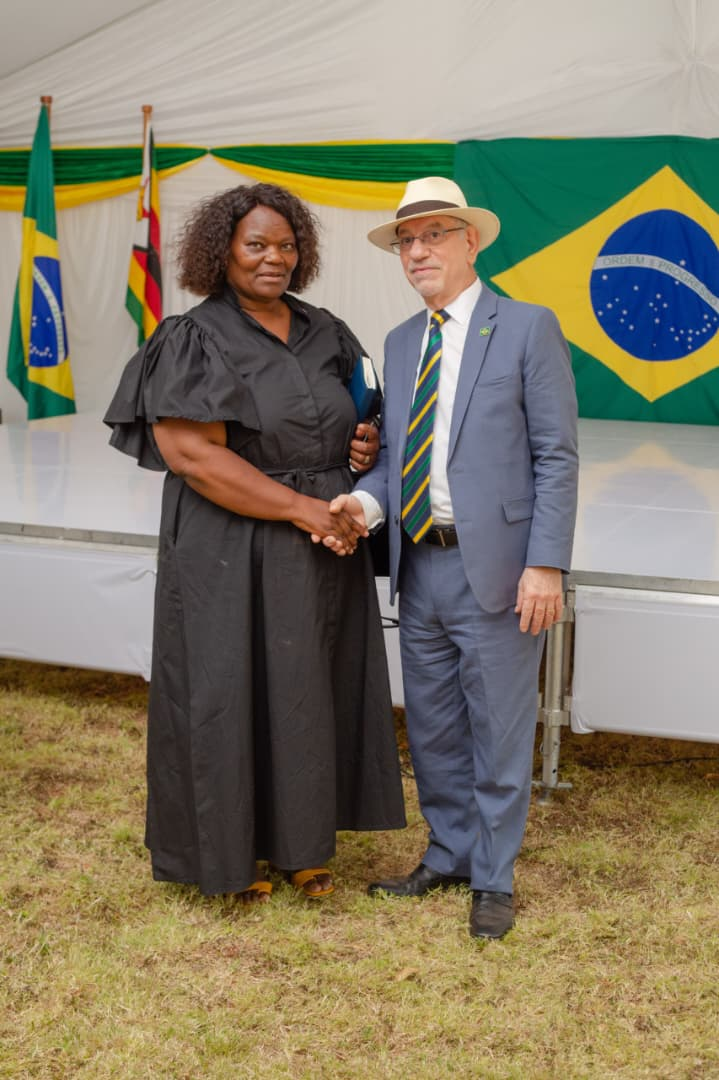
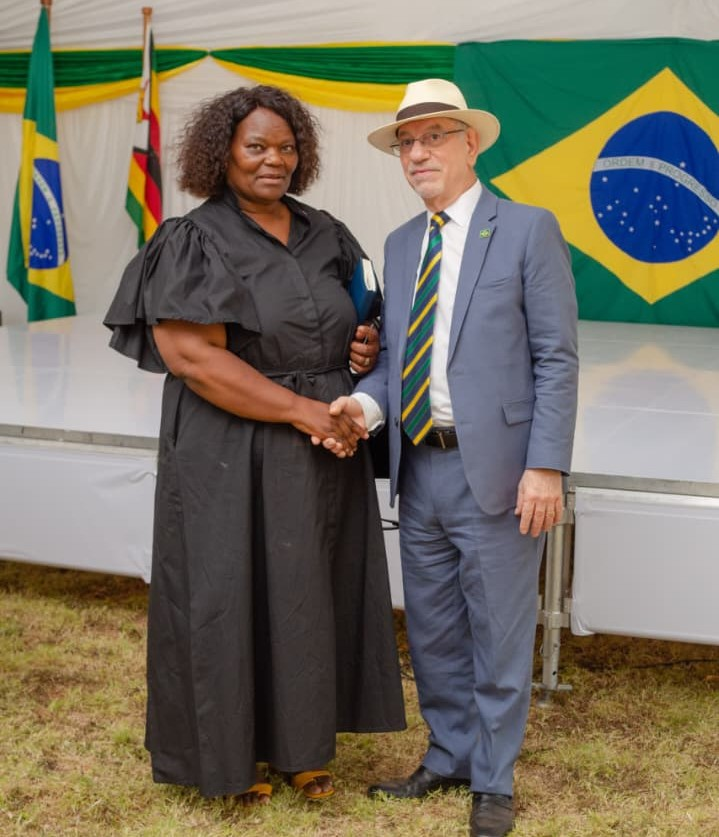
feat: Add new gallery image, update gallery section title, and ensure mobile toggle visibility when navigation is active.

diff --git a/gallery.html b/gallery.html
@@ -165,7 +165,7 @@
         <div class="container">
             <div class="section-title">
                 <span>Visual Journey</span>
-                <h2>Prickly Pear Initiative</h2>
+                <h2>Our Gallery</h2>
                 <p>Click on any image to explore the story behind our sustainable future.</p>
             </div>
 

diff --git a/styles.css b/styles.css
@@ -499,6 +499,12 @@ nav {
     color: var(--text-color);
   }
 
+  /* Force white toggle when menu is active regardless of scroll */
+  .nav-links.active ~ .mobile-toggle,
+  nav:has(.nav-links.active) .mobile-toggle {
+    color: var(--white) !important;
+  }
+
   #main-header {
     padding: 10px 0 !important;
   }
